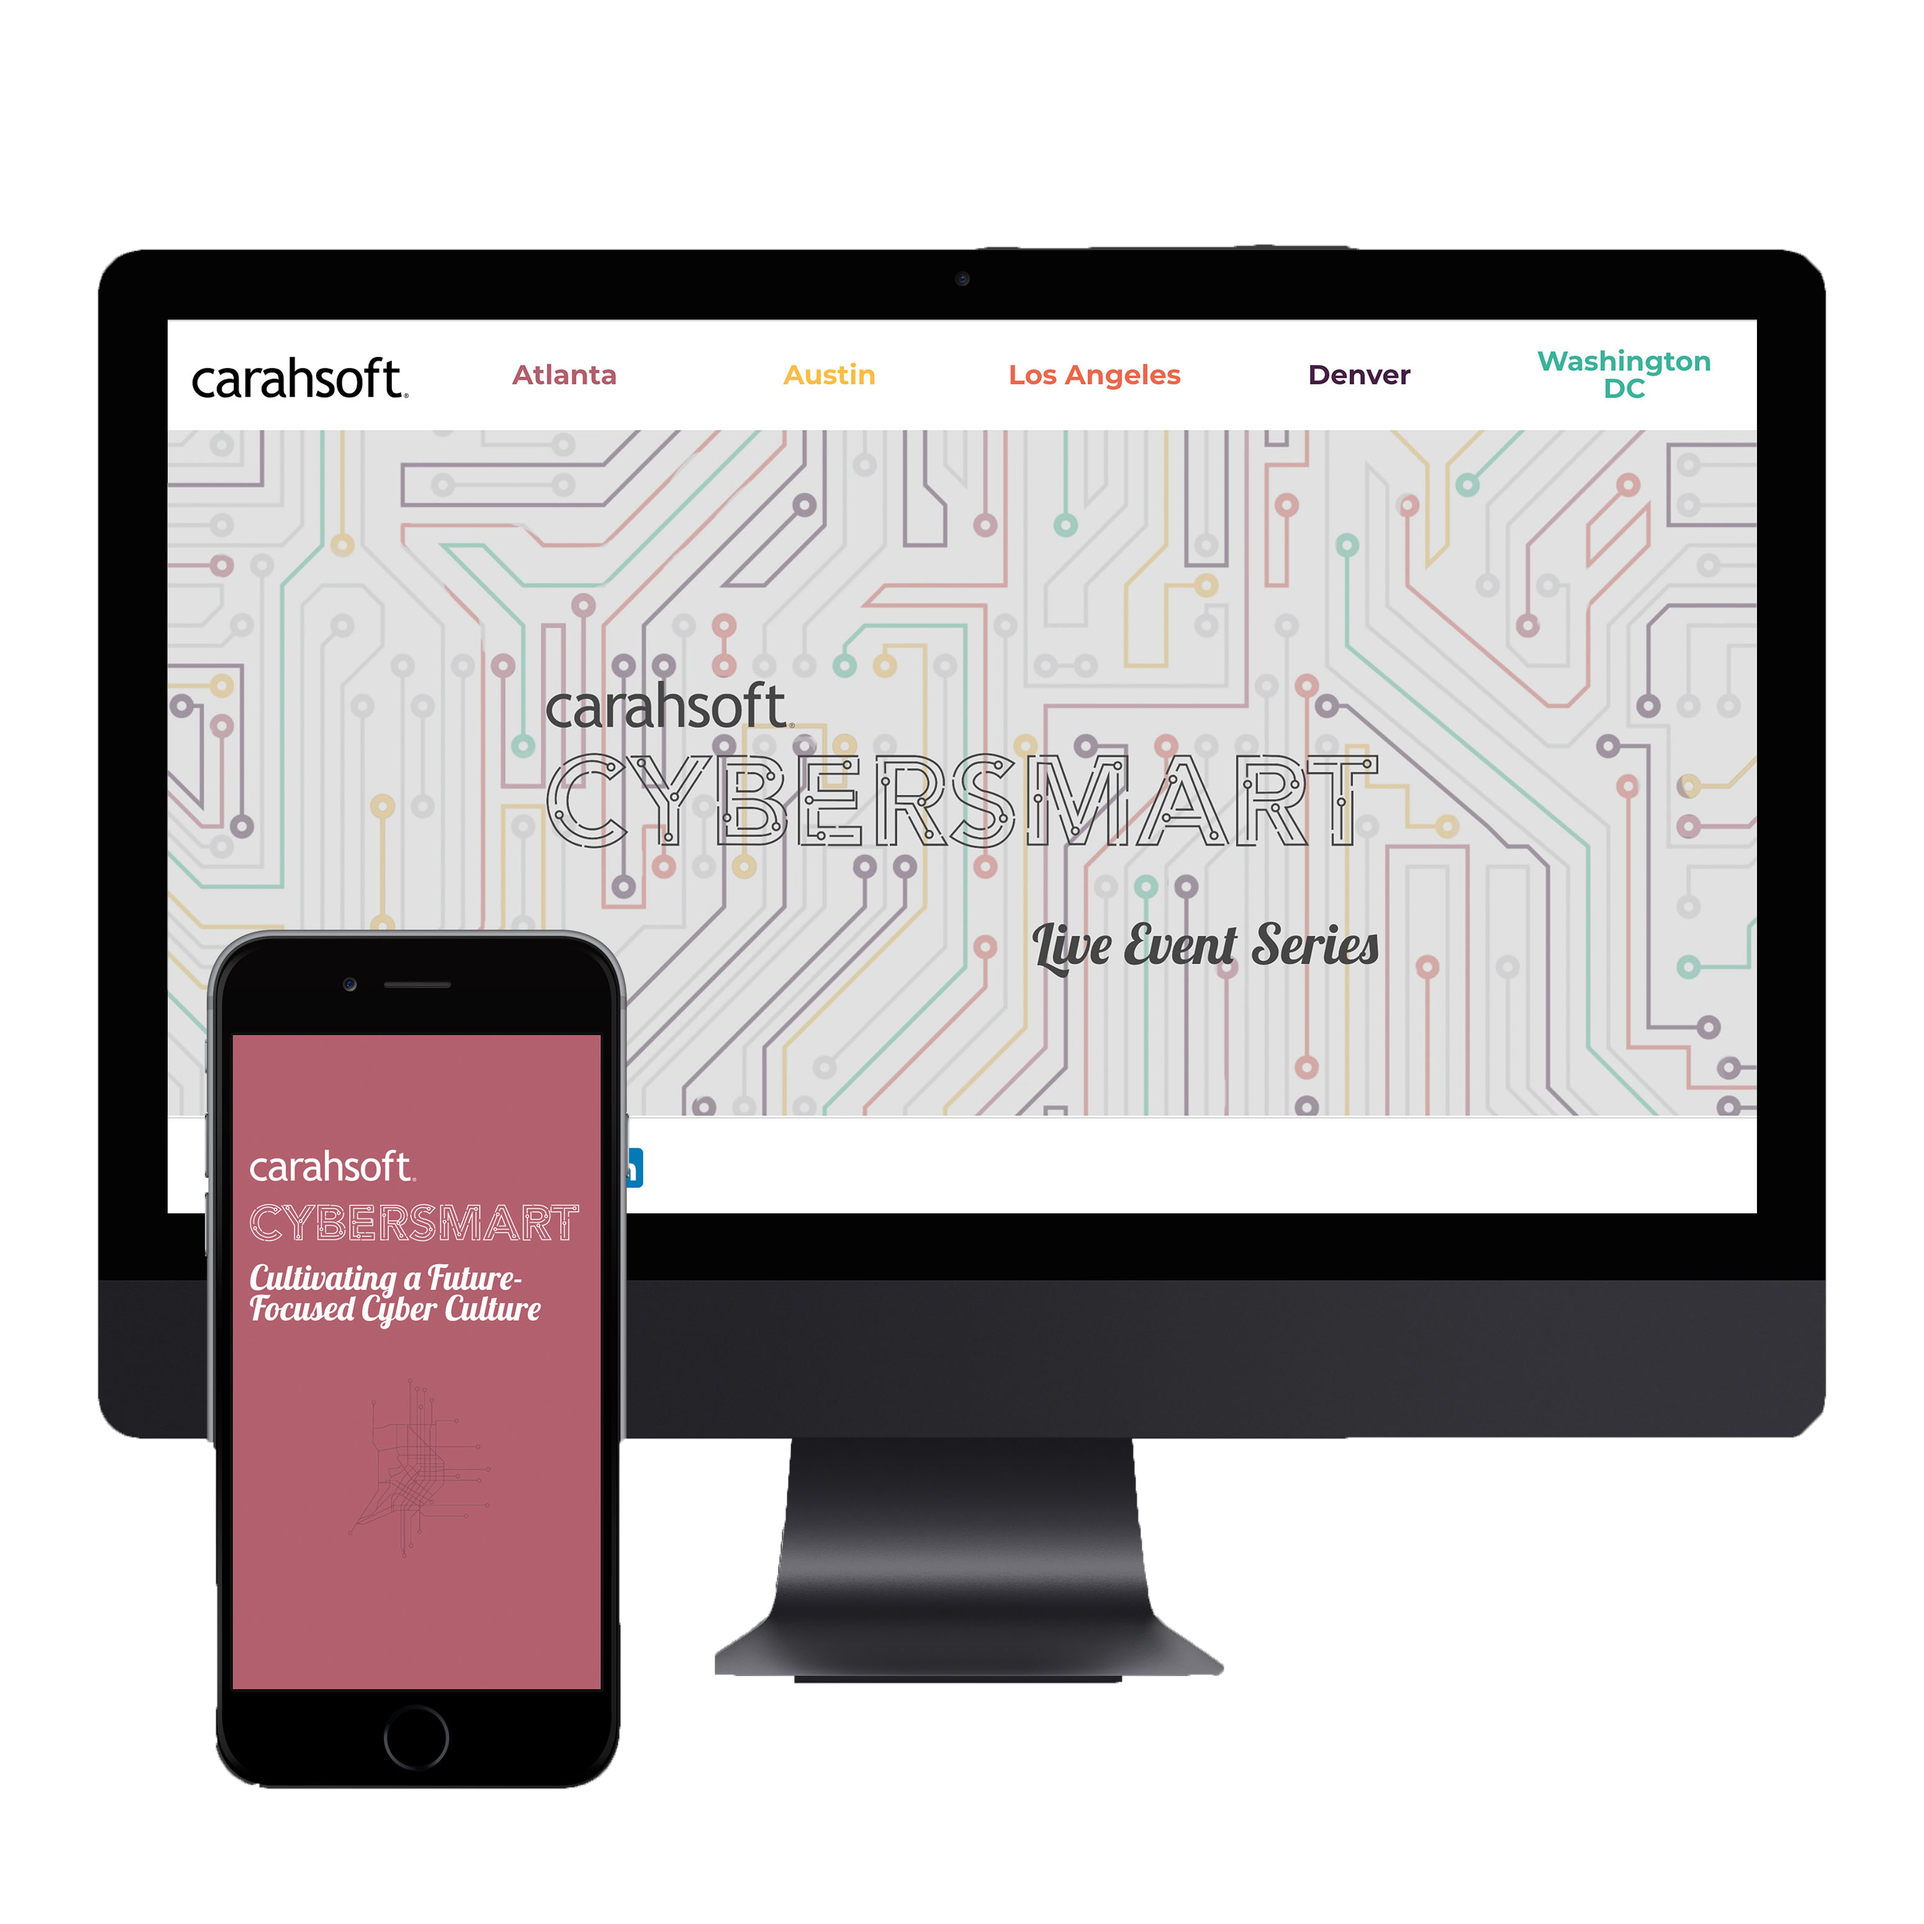
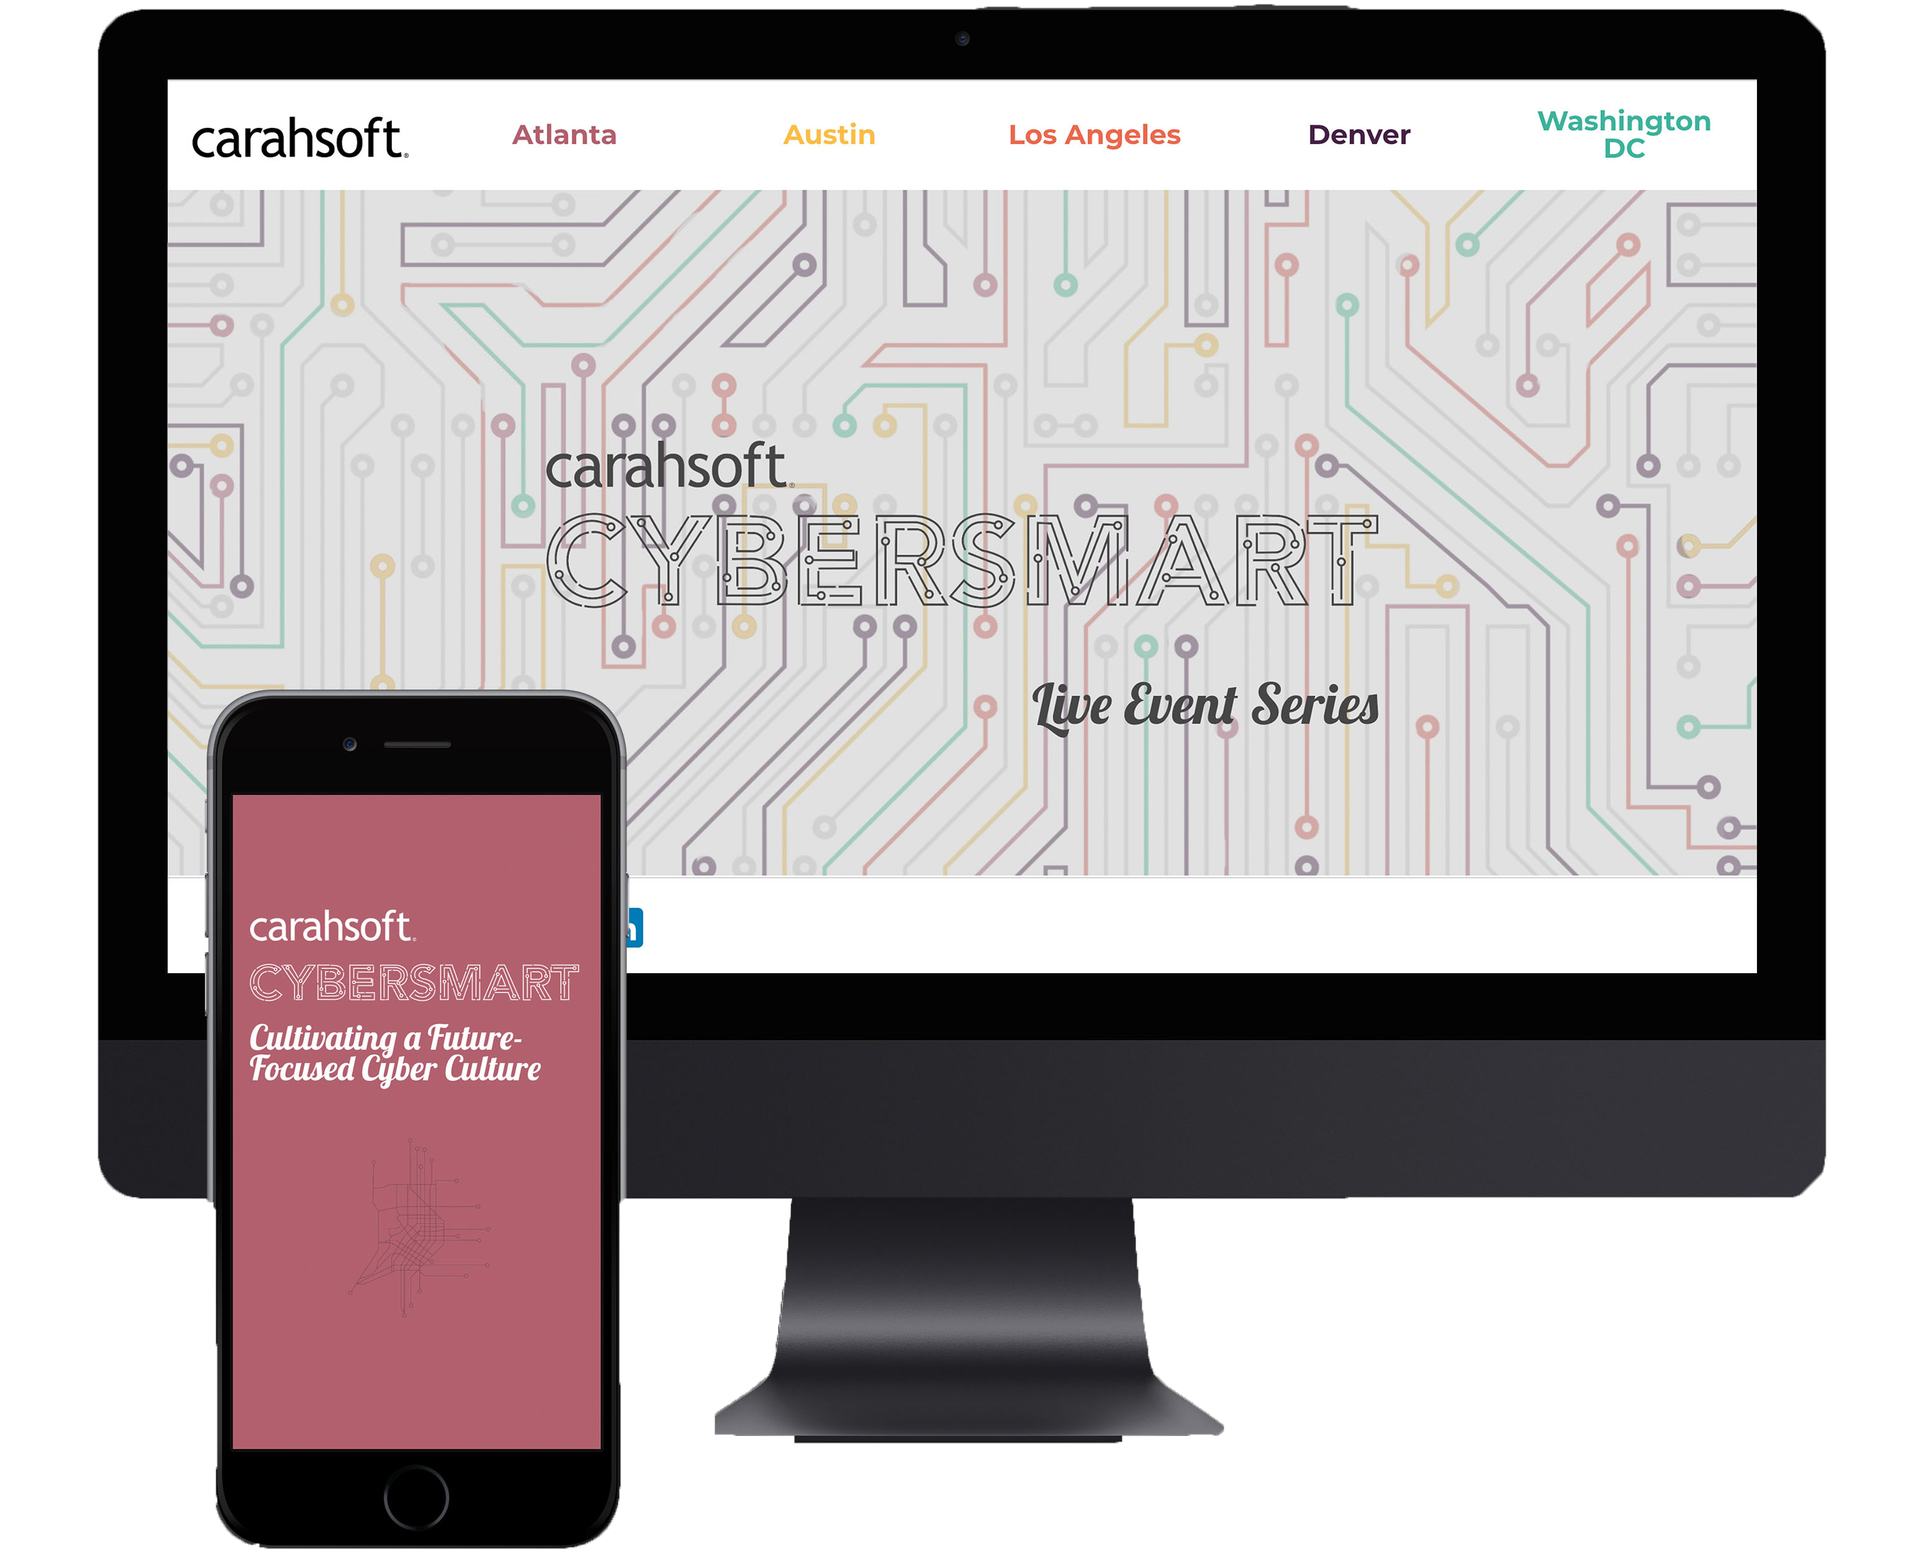
home responsive

diff --git a/index.html b/index.html
@@ -38,108 +38,96 @@
     <script src="https://ajax.googleapis.com/ajax/libs/jquery/3.4.1/jquery.min.js"></script>
 </head>
 <body>
-<div class="container-fluid bg-yellow2">
-<header class="pt-3 pb-3">
-    <div class="row flex-nowrap justify-content-between align-items-center">
-      <div class="col-4">
-        <a class="font-medium futura-demi circle px-2" href="about.html">?</a>
-      </div>
-      <div class="col-5 text-center">
-      </div>
-      <div class="col-3 d-flex justify-content-around align-items-center">
-        <a class="futura-demi font-medium text-uppercase p-2" style="letter-spacing: 2px;" href="#work">Work
+<div class="cover-container d-flex w-100 h-100 flex-column">
+<header class="masthead bg-yellow2">
+    <div class="inner d-flex p-3 px-md-4 justify-content-between">
+        <a class="font-medium futura-demi circle text-center align-self-center" href="about.html" style="line-height: 1.3em;">?</a>
+        <div>
+        <a class="futura-demi font-medium text-uppercase p-2 justify-content-right" style="letter-spacing: 2px;" href="#work">Work
         </a>
-        <a class="futura-demi font-medium text-uppercase p-2" style="letter-spacing: 2px;" href="contact.html">Contact</a>
-      </div>
+        <a class="futura-demi font-medium text-uppercase p-2 justify-content-right" style="letter-spacing: 2px;" href="contact.html">Contact</a>
+        </div>
     </div>
-  </header>
-</div>
-<div class="container-fluid bg-home no-gutters p-0 m-0">
-<section class="min-vh-100">
-    <div class="row justify-content-around">
-    <div class="col-sm-5 pt-5 col-10 position-absolute" style="top: 25%;">
+</header>
+<main roles="main" class="inner cover bg-home justify-content-center vh-100 d-flex align-content-center">
+    <div class="col-md-4 col-10 d-inline my-auto">
     <img src="assets/logo-home.png" alt="Amelia Shuler Logo" class="mw-100">
     </div>
-    </div>
-</section>
-    </div>
-<section class="min-vh-100" id="work">
-    <div class="row p-5 justify-content-center align-items-start">
-    <div class="row col-sm-5">
-        <div class="col-12 pt-3">
-        <p class="utopia-bold text-right header">UX Case Studies</p>
+</main>
+<section class="inner cover justify-content-center vh-100 d-flex align-items-center mw-100 my-auto" id="work">
+    <div class="row justify-content-center">
+    <div class="row col-md-5 col-12 p-md-0 px-5">
+        <div class="col-12">
+        <p class="utopia-bold text-sm-right header text-center">UX Case Studies</p>
         </div>
-        <div class="col-md-6 col-12">
+        <div class="col-6 p-0">
         <a href="flatfit.html" class="case-studies">
         <img src="assets/flatfit-app-cover.png" alt="Flatfit App" class="mw-100">
         </a>
         </div>
-        <div class="col-md-6 col-12">
+        <div class="col-6 p-0">
         <a href="cummins.html" class="case-studies">
         <img src="assets/cummins-cover copy.png" alt="Cummins Web Redesign" class="mw-100">
         </a>
         </div>
-        <div class="col-md-6 col-12">
+        <div class="col-6 p-0">
         <a href="cybersmart.html" class="case-studies">
         <img src="assets/carahsoft-homepagecover.png" alt="Cybersmart Event Series" class="mw-100">
         </a>
         </div>
-        <div class="col-md-6 col-12">
+        <div class="col-6 p-0">
         <a href="leadershipvoices.html" class="case-studies">
         <img src="assets/leadershipvoices-cover.png" alt="Leadership Voices" class="mw-100">
         </a>
         </div>
     </div>
-    <div class="row col-sm-5 pl-5">
-        <div class="col-12 pt-3">
-        <p class="utopia-bold text-left header">Other Skills</p>
-        </div>
-    <div class="col-12 pt-5" style="line-height: 1.6em; letter-spacing: 2px; list-style: none;">
-    <ul class="list-unstyled">
+    <div class="row col-md-5 col-12 pl-sm-5 pb-sm-0 pb-5 align-items-start d-inline">
+    <p class="col-12 utopia-bold text-sm-left header text-center">Other Skills</p>
+    <ul class="list-unstyled text-sm-left text-center col-12">
     <li>
-    <a class="futura-book futura-large text-uppercase skill-link" href="visual-systems.html">
+    <a class="futura-book futura-large text-uppercase skill-link text-sm-left text-center" href="visual-systems.html">
     Visual Systems
     </a>
     </li>
     <li>
-    <a class="futura-book futura-large text-uppercase skill-link" href="animation.html">
+    <a class="futura-book futura-large text-uppercase skill-link text-sm-left text-center" href="animation.html">
     Animation
     </a>
     </li>
     <li>
-    <a class="futura-book futura-large text-uppercase skill-link" href="photography.html">
+    <a class="futura-book futura-large text-uppercase skill-link text-sm-left text-center" href="photography.html">
     Photography
     </a>
     </li>
     <li>
-    <a class="futura-book futura-large text-uppercase skill-link" href="video-work.html">
+    <a class="futura-book futura-large text-uppercase skill-link text-sm-left text-center" href="video-work.html">
     Video Work
     </a>
     </li>
     <li>
-    <a class="futura-book futura-large text-uppercase skill-link" href="podcasting.html">
+    <a class="futura-book futura-large text-uppercase skill-link text-sm-left text-center" href="podcasting.html">
     Podcasting
     </a>
     </li>
     <li>
-    <a class="futura-book futura-large text-uppercase skill-link" href="print-work.html">
+    <a class="futura-book futura-large text-uppercase skill-link text-sm-left text-center" href="print-work.html">
     Print Work
     </a>
     </li>
     <li>
-    <a class="futura-book futura-large text-uppercase skill-link" href="fashion-design.html">
+    <a class="futura-book futura-large text-uppercase skill-link text-sm-left text-center" href="fashion-design.html">
     Fashion Design
     </a>
     </li>
     <li>
-    <a class="futura-book futura-large text-uppercase skill-link" href="painting.html">
+    <a class="futura-book futura-large text-uppercase skill-link text-sm-left text-center" href="painting.html">
     Painting
     </a>
     </li>
     </ul>
     </div>
     </div>
-    </div>
 </section>
+</div>
 </body>
 </html>

diff --git a/css/stylesheet.css b/css/stylesheet.css
@@ -29,20 +29,26 @@ html {
     border-radius: 50%;
     width: 40px;
     height: 40px;
+    transition: all ease 1s;
 }
+
 a {
     transition: all ease 1s;
 }
-header a:hover {
+header .circle:hover {
     text-decoration: none;
     color: #FFC318;
-}
-header .circle:hover {
     border-color: #FFC318;
+}
+header a:hover {
+    text-decoration: none;
+    color: #ffc318;
 }
 .bg-home {
 background: linear-gradient(-45deg, #ffffff 50%, #EA961E 50%);
     background-position: cover;
+	background-repeat: no-repeat;
+	width: 100%;
 }
 .utopia-bold {
     font-family: 'utopia-std-display', 'futura-pt', arial, sansserif;
@@ -55,6 +61,8 @@ background: linear-gradient(-45deg, #ffffff 50%, #EA961E 50%);
 }
 .skill-link {
     color: #FFC318;
+    line-height: 1em;
+    letter-spacing: 2px;
     transition: all ease-in-out .5s;
 }
 .skill-link:hover {
@@ -78,8 +86,9 @@ background: linear-gradient(-45deg, #ffffff 50%, #EA961E 50%);
     background-image: url("../../portfolio 11.2019/assets/sunflower-bg.jpg");
     background-size: cover;
 }
-@media only screen and (max-width: 1080px) {
+@media only screen and (max-width: 1920px) {
 	.header {
 		font-size: 2em;
 	}
+	
 }
